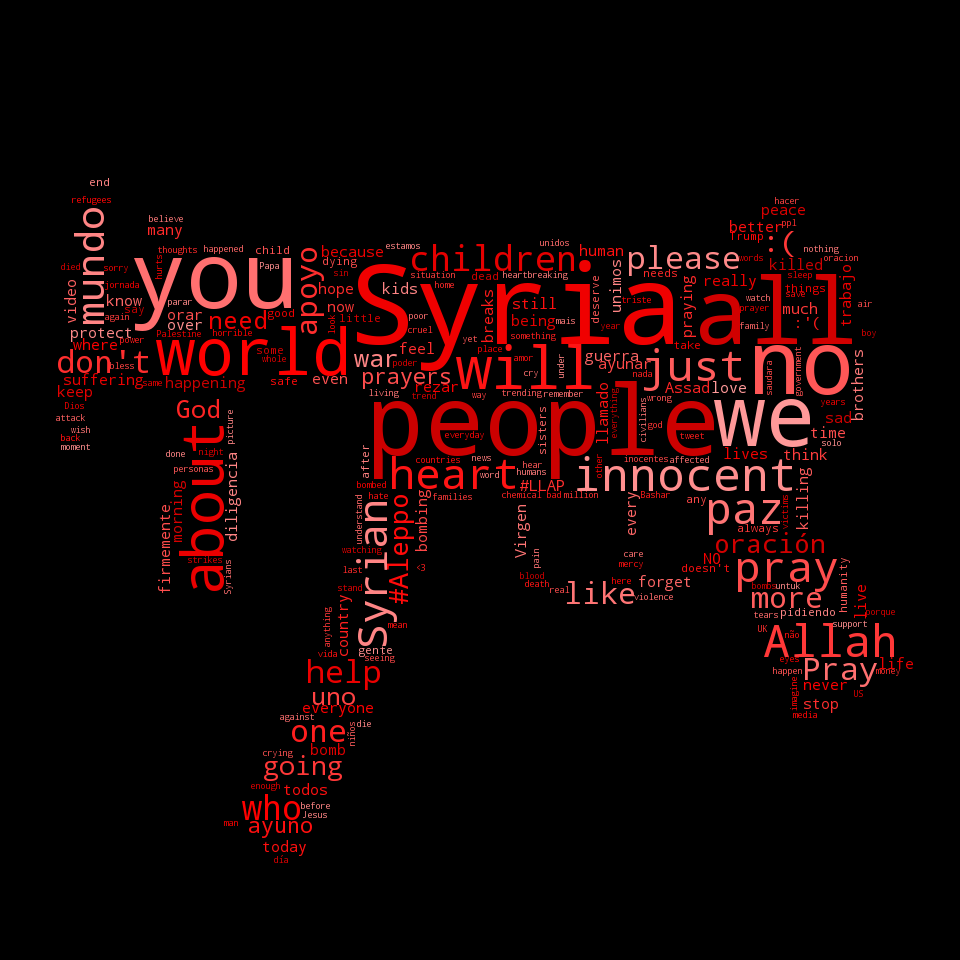
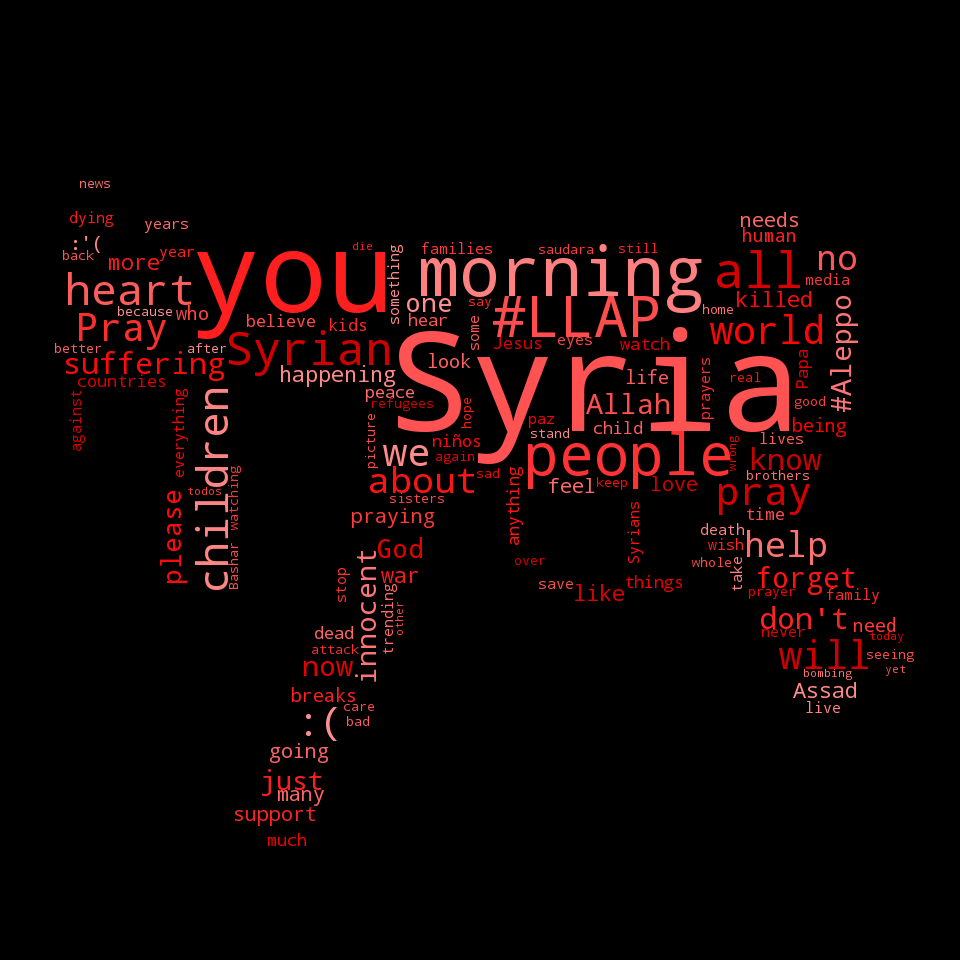
Pymongo broke my db

Changed region(s): [[0.0625, 0.1875, 0.9375, 0.9062]]

diff --git a/main.py b/main.py
@@ -8,7 +8,7 @@ if __name__ == '__main__':
 
 	# Performs queries:
 	fetchy = Fetch()
-	#fetchy.fetchTweets("prayforsyria", 300000, begindate=dt.date(2011,1,21), enddate=dt.date.today())
+	fetchy.fetchTweets("prayforsyria", 1000, begindate=dt.date(2011,1,21), enddate=dt.date.today())
 
 	# Defines words that we want to use in the visualization. All other words will be ignored:
 	chosenWords = ["Syria", "people", "you", "all", "no", "we", "world", "will", "about", "innocent",
@@ -37,7 +37,7 @@ if __name__ == '__main__':
 	# Calculates most used words in tweets:
 	fetchy.calculateMostUsed(700)#, smooth=12000)
 
-	# Filters out unwanted words:
+	# Recovers only wanted words:
 	fetchy.filterMostUsed(chosenWords)
 
 	# Saves data to JSON file:
@@ -47,7 +47,7 @@ if __name__ == '__main__':
 	frequenciesDict = fetchy.getMostUsed();
 
 	# Initializes Word Cloud using the frequency dictionary:
-	disp = Display(frequenciesDict, maskPath="Visualization/machine_gun.png")
+	disp = Display(frequenciesDict, maskPath="Visualization/img/machine_gun.png")
 
 	# Creates an image:
-	disp.produceImage("Visualization/syria.png")
+	#disp.produceImage("Visualization/syria.png")

diff --git a/fetch.py b/fetch.py
@@ -71,9 +71,9 @@ class Fetch():
 				# Attempts to save in database:
 				try:
 					self.collection.insert(tweetDict)
-				except:
-					print("Database insertion failed.")
-					pass
+				except pymongo.errors.PyMongoError as e:
+					print("Database insertion failed: %s" % e)
+
 
 
 	# Function to retrieve a dictionary with most used words. calculateMostUsed() must have been called before.
@@ -114,8 +114,10 @@ class Fetch():
 
 	# Function to save most used words into a JSON file. calculateMostUsed() must have been called before.
 	def jsonMostUsed(self):
-		# Prepares list of objects:
+		# Prepares main JSON list:
 		list = []
+		# Prepares list of words:
+		words = []
 		# Iterates through frequencies:
 		for word in self.mostUsed:
 			obj = {
@@ -123,7 +125,12 @@ class Fetch():
 				"value" : self.mostUsed[word]
 			}
 			# Appends object to list:
-			list.append(obj)
+			words.append(obj)
+		mainObj = {
+			"country": "syria",
+			"frequencies": words
+		}
+		list.append(mainObj)
 		# Saves to file:
 		with open('syria.json', 'w') as fp:
 			json.dump(list, fp)
